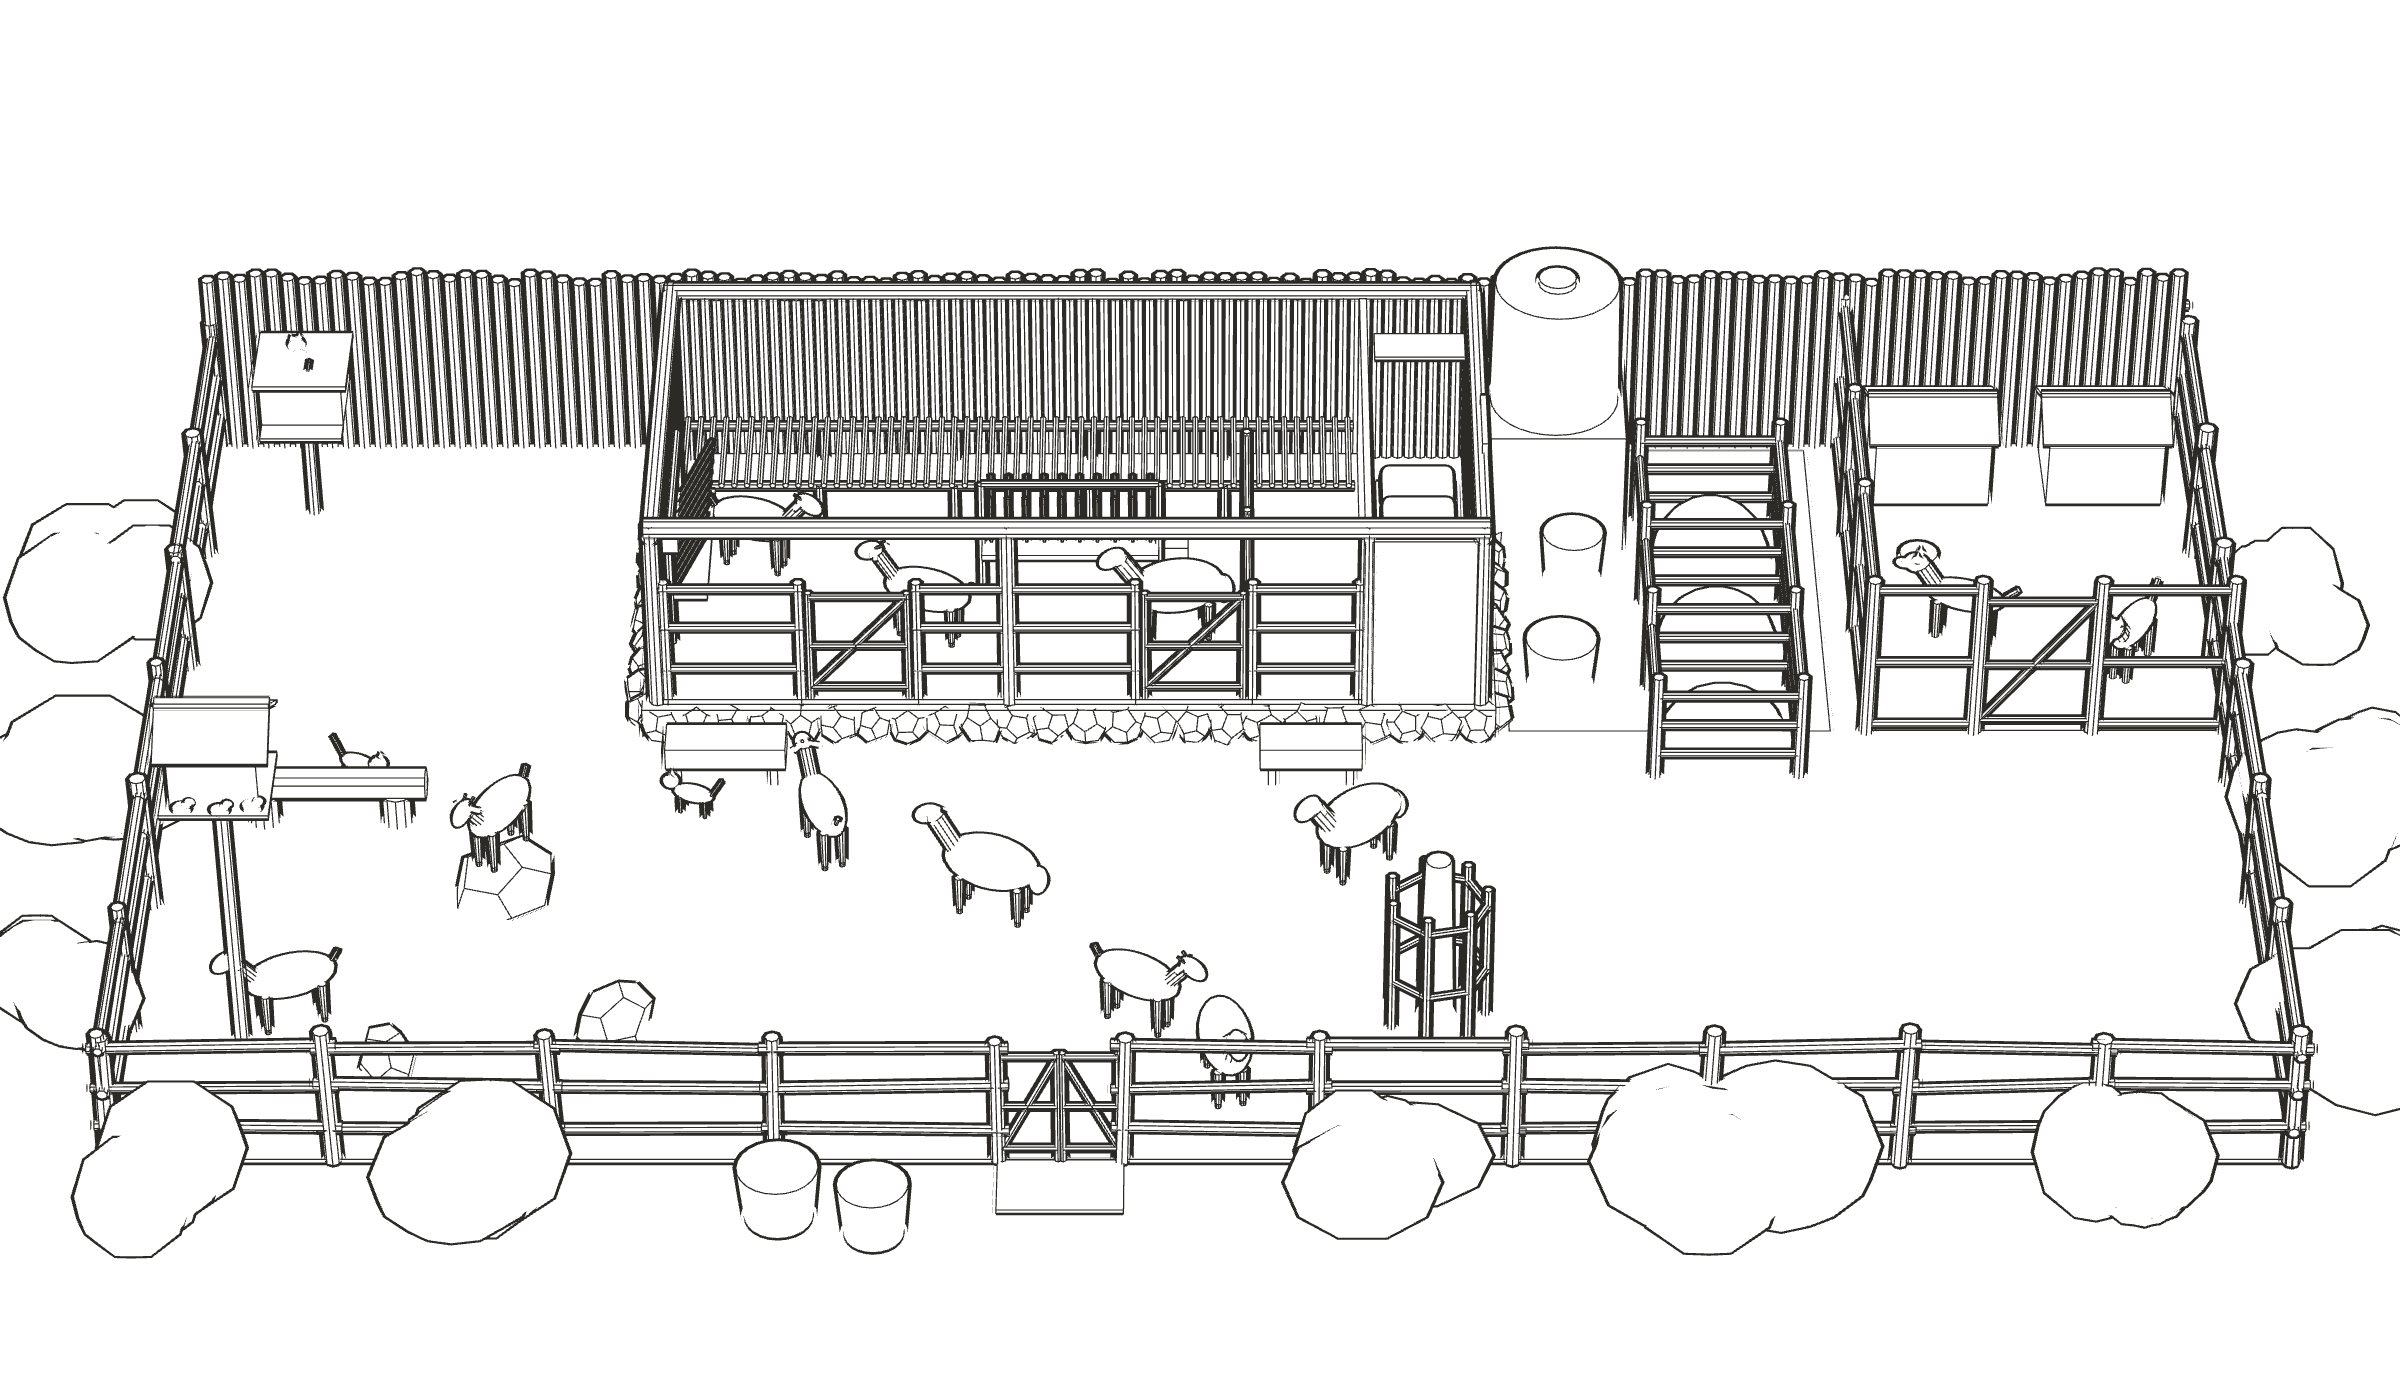
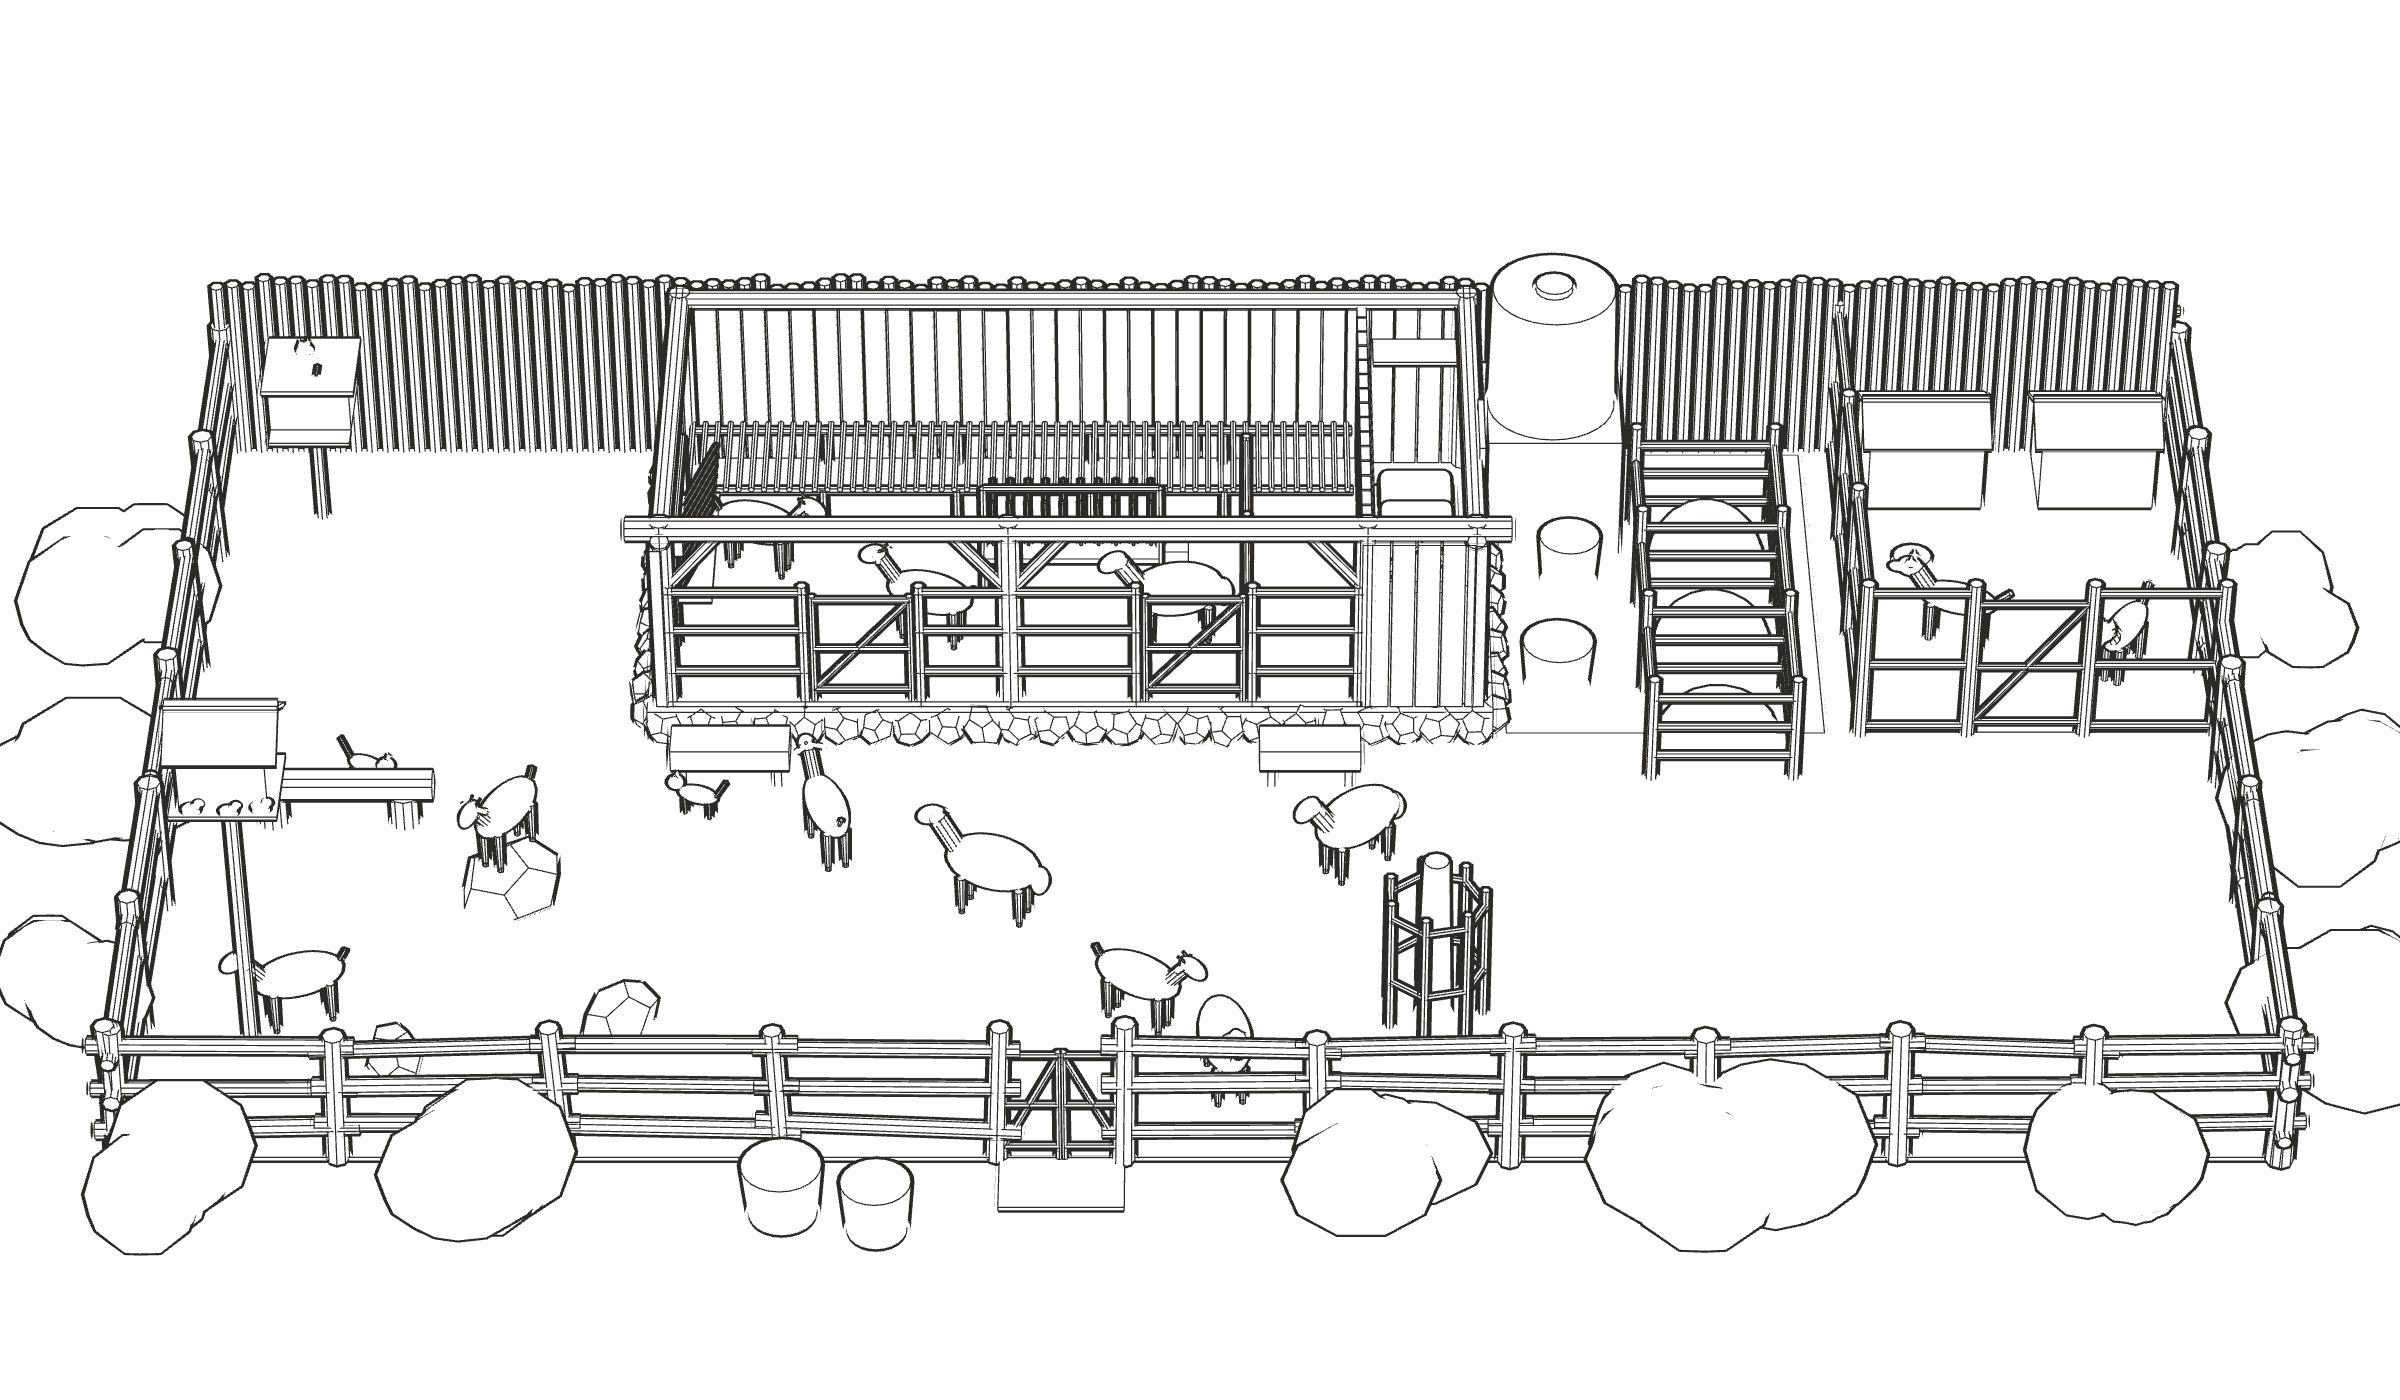
feat(livestock): the photo's shed boards and heavy crooked rails in the 3D; D-043
The founder kept our layout and asked for the photo's shed and rails: dark
weathered upright boards with braced front posts, and thick crooked rails one
bay long, overlapping at heavier posts under heavy rope lashing.

Claude-Session: https://claude.ai/code/session_01S6J7HfcfzMCDbDDKUuUjeQ

diff --git a/scripts/site/render/livestock.html b/scripts/site/render/livestock.html
@@ -123,7 +123,7 @@ const T = LINE ? {} : {
 }
 // metres one tile covers [along, across]
 const TILE = { earth: [2.5, 2.5], straw: [1, 1], packed: [2, 2], bark: [0.4, 2], boards: [1.5, 1.5], hay: [0.6, 0.6], compost: [1, 1], thatch: [1.2, 1.2], grass: [9, 9], weave: [0.3, 0.3] }
-const MAP = { yard: "earth", litter: "straw", packed: "packed", pole: "bark", board: "boards", hay: "hay", compost: "compost", thatch: "thatch", lawn: "grass", basket: "weave" }
+const MAP = { plank: "boards", yard: "earth", litter: "straw", packed: "packed", pole: "bark", board: "boards", hay: "hay", compost: "compost", thatch: "thatch", lawn: "grass", basket: "weave" }
 
 // ------------------------------------------------------------ materials
 // thin parts get crease lines but no silhouette, so slats, rails and horns stay fine in the line drawing
@@ -146,6 +146,7 @@ function mat(name) {
       packed: () => std({ map: T.packed, roughness: 1 }),
       pole: () => std({ map: T.bark, roughness: 0.9 }),
       board: () => std({ map: T.boards, roughness: 0.85 }),
+      plank: () => std({ map: T.boards, color: "#76634f", roughness: 0.9 }), // dark weathered boards, as the photo's shed
       bamboo: () => std({ color: "#c9ae6e", roughness: 0.6 }),
       stone: () => std({ color: "#8d877c", roughness: 0.95, flatShading: true }),
       rope: () => std({ color: "#c2a874", roughness: 1 }),
@@ -263,23 +264,30 @@ if (HERO) {
   blk(-L + WALL, -W + WALL, HALL.x1 - 0.03, W, FL, LIT, "litter")
 }
 
-// ------------------------------------------------------------ the shelter: upright split poles at the back and the ends to the eaves
+// ------------------------------------------------------------ the shelter, as the founder's photo's shed: wide dark weathered boards set upright at the
+// back and the ends, heavy barked posts along the open front, braced to the eaves beam
 {
-  const r = WALL / 2
-  for (let x = -L + r; x <= L - r + 1e-6; x += 2 * r * 0.98) pole(x, -W + r, r, FL, EAVE + (rnd() - 0.5) * 0.06)
-  for (let z = -W + 3 * r; z <= W - r + 1e-6; z += 2 * r * 0.98) pole(-L + r, z, r, FL, EAVE + (rnd() - 0.5) * 0.06)
-  // the east end: poles beside the store's door, which opens onto the path behind
+  const plank = (x0, z0, x1, z1) => blk(x0, z0, x1, z1, FL, EAVE - 0.04 + (rnd() - 0.5) * 0.06, "plank")
+  for (let x = -L; x < L - 0.05; x += 0.21) plank(x, -W, Math.min(x + 0.19, L), -W + WALL)
+  for (let z = -W + WALL; z < W - 0.05; z += 0.21) plank(-L, z, -L + WALL, Math.min(z + 0.19, W))
+  // the east end: boards beside the store's door, which opens onto the path behind
   const door = 0.7
-  for (let z = -W + 3 * r; z <= W - r + 1e-6; z += 2 * r * 0.98) if (z < -0.02 || z > door + 0.02) pole(L - r, z, r, FL, EAVE + (rnd() - 0.5) * 0.06)
-  // the posts along the open front carry the eaves beam; the wall plates along the back and the ends
-  for (const x of [-L + r, (HALL.x0 + HALL.x1) / 2, STORE.x0, L - r]) pole(x, W - r, 0.07, FL, EAVE + 0.15, 9)
-  pipe([-L, EAVE + 0.1, W - r], [L, EAVE + 0.1, W - r], 0.08, "pole", 9)
-  pipe([-L, EAVE + 0.04, -W + r], [L, EAVE + 0.04, -W + r], 0.07, "pole", 9)
-  for (const x of [-L + r, L - r]) pipe([x, EAVE + 0.04, -W], [x, EAVE + 0.04, W], 0.07, "pole", 9)
-  // the store's boarded walls: its west wall, its front onto the sheep yard, its door shut on a hasp
-  blk(STORE.x0 - 0.03, -W + WALL, STORE.x0 + 0.03, W, FL, EAVE, "board")
-  blk(STORE.x0, W - 0.06, L - WALL, W, FL, EAVE, "board")
-  blk(L - 0.04, 0, L + 0.01, door, FL, FL + 1.9, "board")
+  for (let z = -W + WALL; z < W - 0.05; z += 0.21) if (z + 0.19 < -0.02 || z > door + 0.02) plank(L - WALL, z, L, Math.min(z + 0.19, W))
+  // the corner and front posts, heavy and barked; the eaves beam and the wall plates; a knee brace at each front post
+  const posts = [-L + 0.09, (HALL.x0 + HALL.x1) / 2, STORE.x0, L - 0.09]
+  for (const x of posts) pole(x, W - 0.09, 0.1, FL, EAVE + 0.18, 9)
+  for (const x of [-L + 0.09, L - 0.09]) pole(x, -W + 0.09, 0.1, FL, EAVE + 0.12, 9)
+  pipe([-L - 0.2, EAVE + 0.1, W - 0.09], [L + 0.2, EAVE + 0.1, W - 0.09], 0.1, "pole", 9)
+  pipe([-L, EAVE + 0.04, -W + 0.09], [L, EAVE + 0.04, -W + 0.09], 0.08, "pole", 9)
+  for (const x of [-L + 0.09, L - 0.09]) pipe([x, EAVE + 0.04, -W], [x, EAVE + 0.04, W], 0.08, "pole", 9)
+  for (const x of posts) for (const s of [-1, 1]) {
+    if ((x === posts[0] && s < 0) || (x === posts.at(-1) && s > 0)) continue
+    pipe([x, EAVE - 0.55, W - 0.09], [x + s * 0.5, EAVE + 0.06, W - 0.09], 0.045, "pole", 6)
+  }
+  // the store's boarded walls: its west wall, its front onto the yard, its door shut on a hasp
+  for (let z = -W + WALL; z < W - 0.05; z += 0.21) blk(STORE.x0 - 0.04, z, STORE.x0 + 0.04, Math.min(z + 0.19, W), FL, EAVE, "plank")
+  for (let x = STORE.x0; x < L - WALL - 0.05; x += 0.21) blk(x, W - 0.07, Math.min(x + 0.19, L - WALL), W, FL, EAVE, "plank")
+  blk(L - 0.04, 0, L + 0.01, door, FL, FL + 1.9, "plank")
   blk(L + 0.01, 0.06, L + 0.03, 0.18, FL + 1.0, FL + 1.06, "pole")
 }
 
@@ -341,23 +349,24 @@ function gate(x0, z0, x1, z1, y0, h) { // shut: a frame of thin poles with a dia
 }
 
 // ------------------------------------------------------------ the outline and the yard: posts and three lashed rails, the gate, troughs
-// hand-cut: each post leans a little and stands at its own height; each rail spans one bay, crooked by a few
-// centimetres and overlapping the next at the post, as in the founder's reference photo
+// as the founder's photo's fence: heavy barked posts, each leaning a little at its own height; thick rails, each one bay
+// long, crooked by several centimetres and overlapping the next at the post, lashed with rope
 function fence(x0, z0, x1, z1) {
   const len = Math.hypot(x1 - x0, z1 - z0), n = Math.max(1, Math.ceil(len / Y.post))
   const ux = (x1 - x0) / len, uz = (z1 - z0) / len
   const at = (k) => [x0 + ((x1 - x0) * k) / n, z0 + ((z1 - z0) * k) / n]
   for (let k = 0; k <= n; k++) {
     const [x, z] = at(k)
-    const p = pole(x, z, 0.055 + rnd() * 0.02, 0, Y.h + 0.1 + (rnd() - 0.5) * 0.12, 8)
-    p.rotation.set((rnd() - 0.5) * 0.06, 0, (rnd() - 0.5) * 0.06)
-    if (!LINE) for (const h of RAILS) cyl(x, z, 0.07, h - 0.05, 0.1, "rope", 8) // the sisal lashing at each rail
+    const p = pole(x, z, 0.075 + rnd() * 0.03, 0, Y.h + 0.14 + (rnd() - 0.5) * 0.16, 8)
+    p.rotation.set((rnd() - 0.5) * 0.08, 0, (rnd() - 0.5) * 0.08)
+    if (!LINE) for (const h of RAILS) cyl(x, z, 0.1, h - 0.07, 0.14, "rope", 8) // the rope lashing at each rail
   }
   for (let k = 0; k < n; k++) {
     const [ax, az] = at(k), [bx, bz] = at(k + 1)
     for (const h of RAILS) {
-      const r = 0.035 + rnd() * 0.012, j = () => (rnd() - 0.5) * 0.07
-      pipe([ax - ux * 0.1, h + j(), az - uz * 0.1], [bx + ux * 0.1, h + j(), bz + uz * 0.1], r, "pole", 7)
+      // thick barked rails, as the photo's: each one bay long, crooked, overlapping the next at the post
+      const r = 0.05 + rnd() * 0.022, j = () => (rnd() - 0.5) * 0.11
+      pipe([ax - ux * 0.18, h + j(), az - uz * 0.18], [bx + ux * 0.18, h + j(), bz + uz * 0.18], r, "pole", 8)
     }
   }
 }

diff --git a/src/lib/design-blur.generated.ts b/src/lib/design-blur.generated.ts
@@ -11,7 +11,7 @@ export const DESIGN_BLUR: Record<string, string> = {
[8 lines of base64/hex data omitted]

diff --git a/study/execution/decision-log.md b/study/execution/decision-log.md
@@ -156,3 +156,6 @@ Context: the founder asked for the livestock to have "the same sense" as the ref
 
 **D-042 · 2026-10-29 · The founder's reference photo is the /en/livestock hero; the 2D and the 3D stay the D-039 to D-041 design.**
 Context: the founder asked to use the reference photo as the hero, to redraw the 2D and the 3D to mirror it closely, then to restore the previous 2D, and chose the previous 3D so the two drawings agree. Decision: `public/designs/livestock/render/livestock-hero.jpg` is the photo, cut to 2400 x 1340 from its 2000 px original (kept at `assets/livestock/hero-reference.png`, gitignored) above the Google Lens badge in its corner. It is the yard's look and feel, not a picture of the farm: its background buildings and hills are not Rwanda's, and it carries no "concept" badge, as the studio's hero (D-018). The source of the photo (the founder's own Nano Banana generation or a found image) is [U]; confirm before the page is promoted. The 2D, the 3D and `livestock.json` stay as committed under D-039 to D-041. The Nano Banana handoff (`~/Desktop/livestock-nano-banana`) is on hold.
+
+**D-043 · 2026-10-29 · The livestock 3D takes the photo's shed and rails on our layout.**
+Context: the founder kept our design ("ours was good") and asked to copy the photo's shed and rails. Decision: in `scripts/site/render/livestock.html` the shelter's back, ends and feed store are wide dark weathered boards set upright, with heavy barked posts along the open front braced to the eaves beam, as the photo's shed; the fence posts are heavier and lean more, and every rail is thick, crooked and one bay long, overlapping the next at the post under a heavy rope lashing. The layout, the 2D and `livestock.json` are unchanged (D-039 to D-041).
